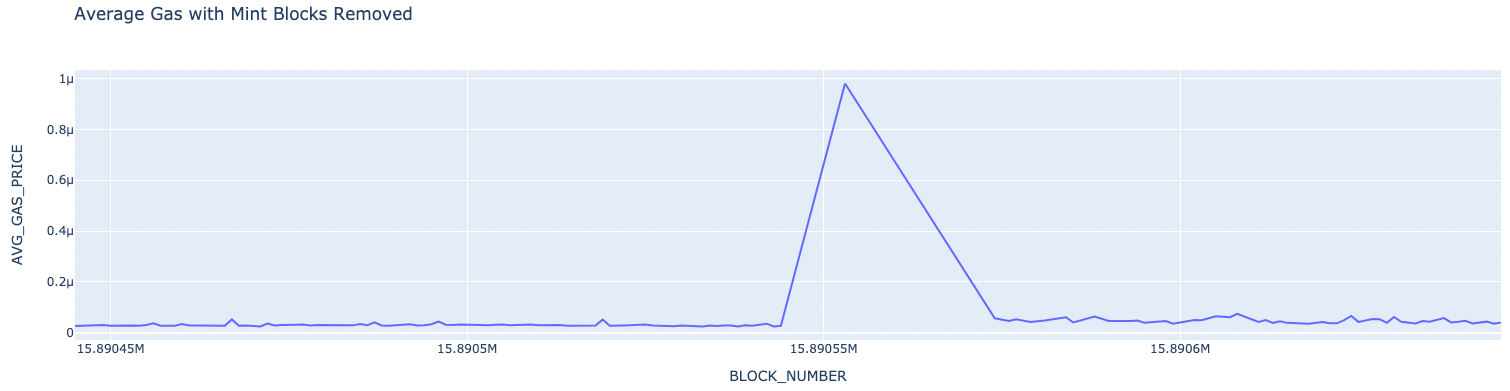
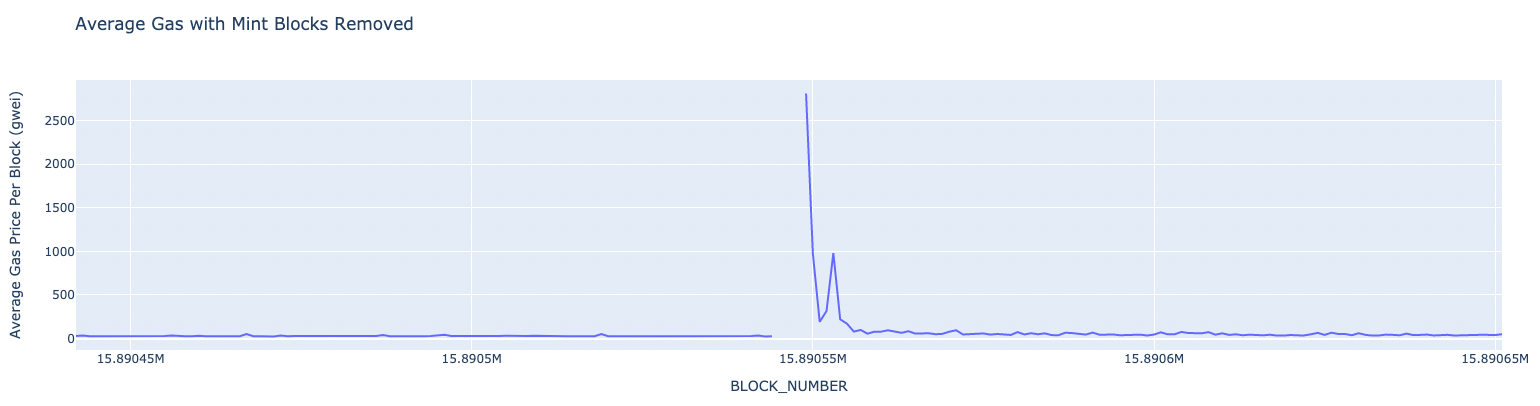
Pokedex & Why Pikapool: Graphs replaced & tone adjusted (#17)
* Pokedex & Why Pikapool: Graphs replaced & tone adjusted

* trigger vercel deploy

diff --git a/sidebars/index.js b/sidebars/index.js
@@ -52,11 +52,6 @@ module.exports = {
     },
     {
       type: 'doc',
-      label: 'Mint Pokedex',
-      id: 'pokedex',
-    },
-    {
-      type: 'doc',
       label: 'Pikapool Auctions',
       id: 'auctions',
     },

diff --git a/docs/welcome/why-pikapool.md b/docs/welcome/why-pikapool.md
@@ -1,32 +1,36 @@
 # Why Pikapool?
-Pikapool leverages meta-transactions and a synthetic gas price to order bids in a single bundle instead of leaving minters out on their own. Pikapool allows projects to align with the current minting paradigms while generating more revenue without burning participants who fail to pay enough gas to win the auction. Projects can still have an Allow List and Public Mint, plus the mint price can remain static.
+Pikapool uses meta-transactions to create pseudo account abstraction, then handles transaction ordering off-chain based on the gas price selected by the minter. Pikapool allows projects to align with the current minting paradigms while generating more revenue without burning participants who fail to pay enough gas to win the auction.
 
-The end result is the same gas auction experience with the same reseller floor protection, but a portion of the gas goes back to the NFT project instead of the validator. On top of that, minters who fail to get an NFT don't need to pay the gas on the failed transaction! Instead, the transaction is just left out completely.
+The end result is the same gas auction experience, but a portion of the gas goes back to the NFT project instead of the validator. On top of that, minters who fail to get an NFT don't need to pay the gas on the failed transaction! Instead, the transaction is just left out completely.
 
-## A Visual Example
-Let's use the recent GM.Studio Catharsis Public Mint as an example. As standard, the Catharsis mint had an Allow List mint (which they called Early Access) followed by a Public Mint. The table below breaks down the highlights of the mint.
+Pikapool can also be used to pre-sign mint transactions. If a minter won't be at their keyboard during the minting period, Pikapool allows them to pre-sign the mint transaction which gurantees they'll be included in the mint as long as the gas price they select isn't too low.
+
+## A Visual Example - GM.Studio Catharsis Public Mint
+GM.Studio's [Catharsis](https://www.gmstudio.art/collections/catharsis) mint was only available for participants on the Allow List (which they called Early Access) until the mint was opened to the public. The table below breaks down the highlights of the mint.
 
 | Mint Type    | NFT's Minted | Participants | Average Gas per TX | Block Range |
 |--------------|--------------|--------------|--------------------|-------------|
 | Public       | 226          | 226          | 0.27 ETH           | 2           |
 | Early Access | 767          | 601          | 0.001 ETH          | 1468        |
 
-Look at that public mint... 226 NFT's minted in 2 blocks with an average gas cost of 0.27 ETH per transaction! This isn't inherently a bad thing. GM.Studio has built a trustworthy brand supporting top-level artists. They've earned this response. How did this impact the average gas cost surrounding the mint though? Check out the graph below.
+The switch to a public mint resulted in a surge in demand, selling out the remaining 226 NFTs in just 2 blocks while causing a gas auction. Compared to the Early Access mint, which saw an average gas price of 0.001 ETH, the Public mint averaged a 0.27 ETH gas price per transaction.
 
-![Surrounding Mint](/img/catharsis-surrounding-mint.png)
+The graph below shows average gas price per block surrounding the Catharsis mint.
+
+![Surrounding Mint](/img/why_pikapool/catharsis_surrounding.png)
 
 Here's the same graph, but the blocks containing a mint have been removed.
 
-![Surrounding Mint](/img/catharsis-mint-removed.png)
+![Surrounding Mint](/img/why_pikapool/catharsis_removed.png)
 
 It's clear that the spike in gas is a direct response to the NFT mint, but none of that additional gas went to GM.Studio or Dario Lanza (the artist behind Catharsis). Instead, most of it went to 
-0xea674fdde714fd979de3edf0f56aa9716b898ec8, a validator maintained by Ethermine...
+0xea674fdde714fd979de3edf0f56aa9716b898ec8, a validator maintained by Ethermine.
 
-So, how much additional proceeds could have been sent to GM.Studio & Dario if they had used Pikapool?
+Had GM.Studio & Dario used Pikapool, the excess gas spent on the auction would have gone to them instead of the validator. Details on the potential additional revenue can be seen below:
 - Average gas cost surrounding the mint (mint blocks removed): 18.95 gwei
 - Average gas cost per mint transaction: 1917.13 gwei
 - **Potential additional revenue: 61.2 ETH**
 
-This doesn't even mention the 40.74 ETH spent on **failed** transactions.
+This also ignores the 40.74 ETH spent on **failed** transactions.
 
-And Catharsis isn't even the worst example! If you want to see more gas auction summaries, check out the Pokedex.
+If you want to see more gas auction summaries, check out the [Pokedex](../category/pokedex).

diff --git a/docs/pokedex/otherdeed.md b/docs/pokedex/otherdeed.md
@@ -29,6 +29,9 @@ The Otherdeed Mint had 3 parts, a Contributor Mint, BAYC & MAYC Holder Mint, and
 #### Average Gas Price per Block Surrounding the Mint
 ![Otherdeed Surrounding](/img/pokedex/otherdeed/otherdeed_surrounding.png)
 
+#### Average Gas Price per Block - Mint Blocks Removed
+![Otherdeed Removed](/img/pokedex/otherdeed/otherdeed_removed.png)
+
 ### BAYC & MAYC Holders
 | NFTs Minted | Participants | Average Gas Cost per NFT | Block Range | Failed TX's | Gas Spent on Failed TX's |
 |-------------|--------------|--------------------------|-------------|-------------|--------------------------|

diff --git a/docs/pokedex/vaynersports-pass.md b/docs/pokedex/vaynersports-pass.md
@@ -28,3 +28,6 @@ The VSP Mint was an entirely open mint
 
 #### Average Gas Price per Block Surrounding the Mint
 ![VSP Surrounding](/img/pokedex/vsp/vsp_surrounding.png)
+
+#### Average Gas Price - Mint Blocks Removed
+![VSP Surrounding](/img/pokedex/vsp/vsp_removed.png)

diff --git a/README.md b/README.md
@@ -1,4 +1,4 @@
-# Website
+# Website 
 
 This website is built using [Docusaurus 2](https://docusaurus.io/), a modern static website generator.
 
